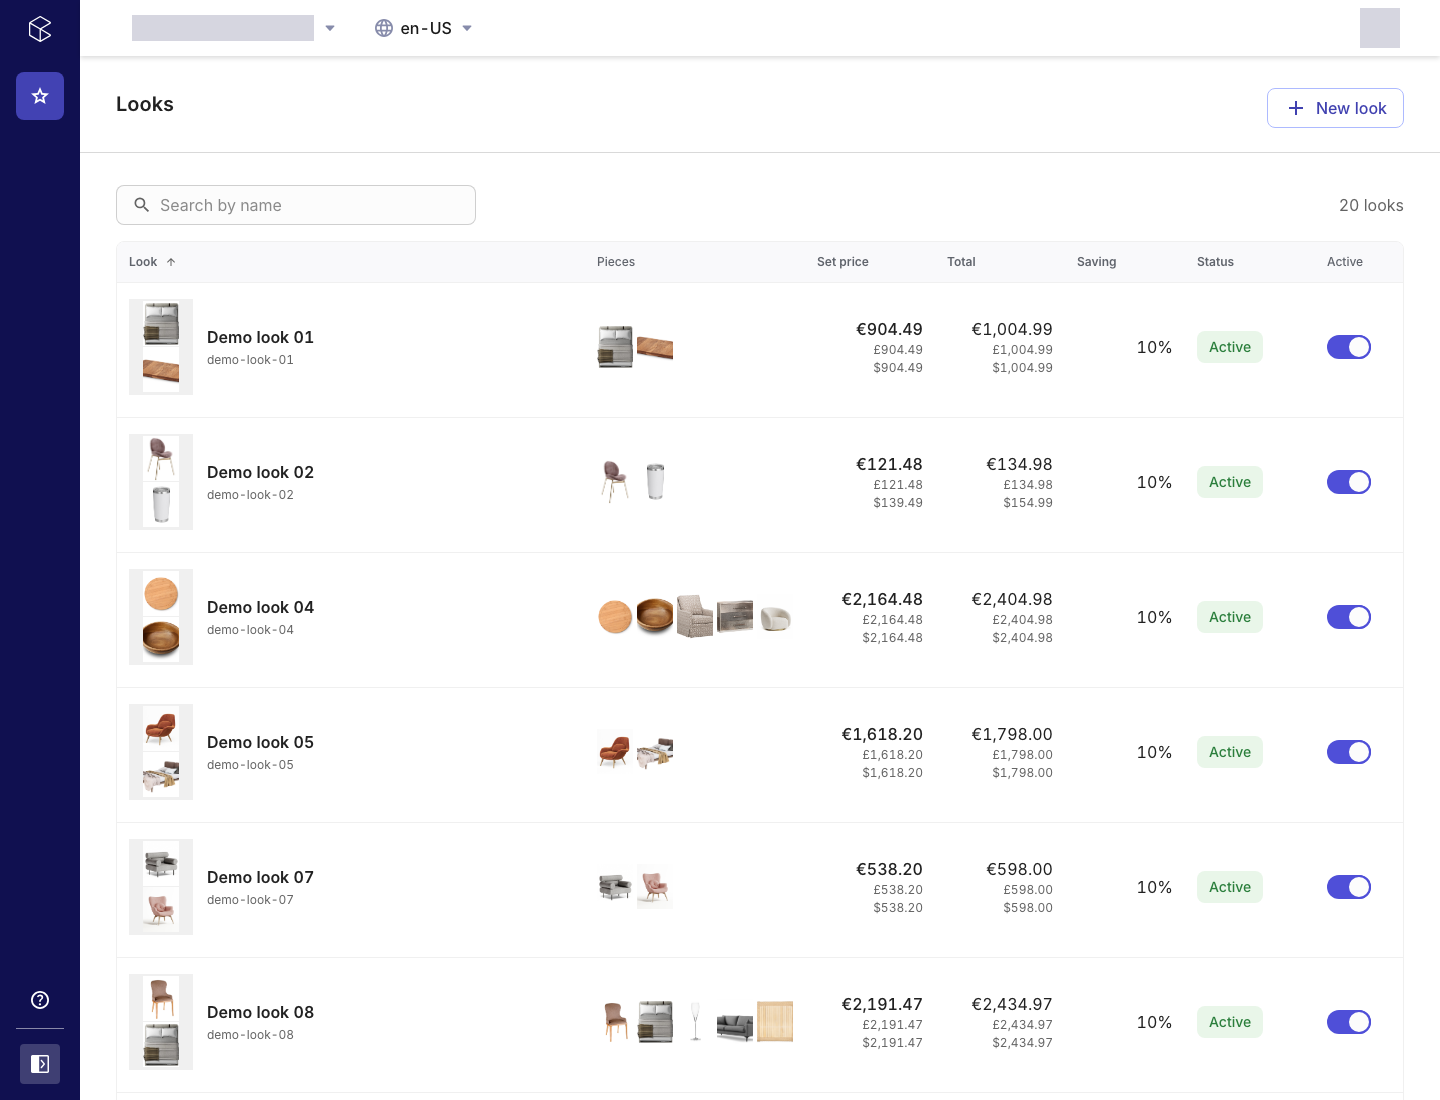
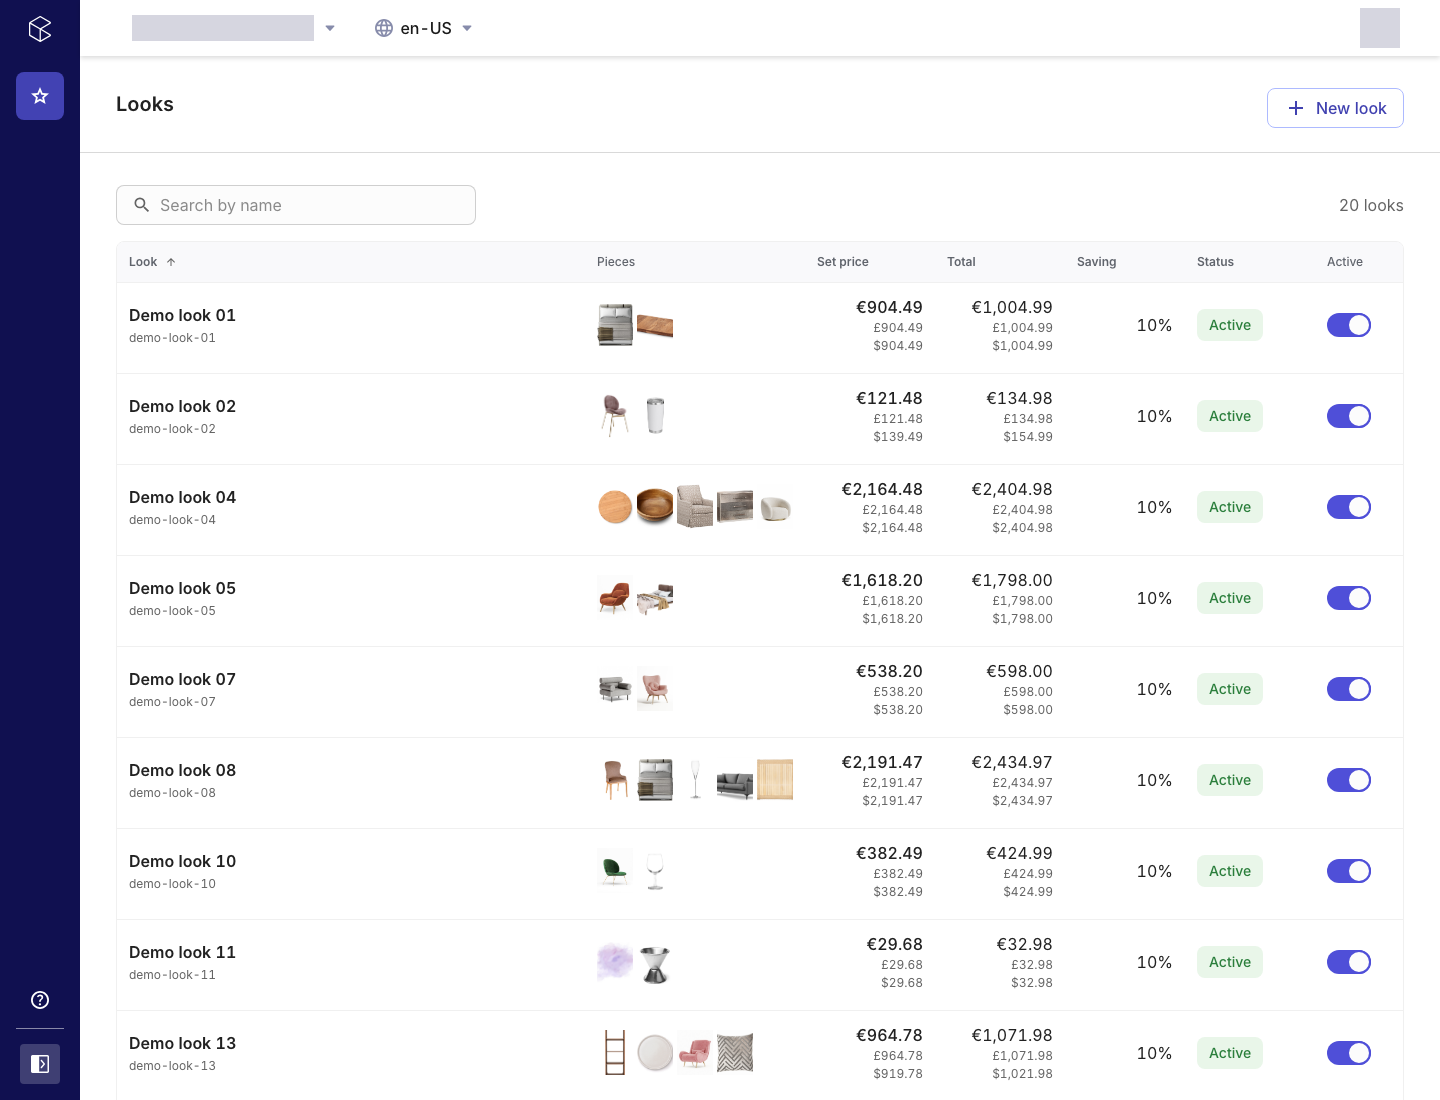
Remove the images from the Look column of the list
The Look column shows the name and the key only; the piece images stay in
the Teile column. Spec FR-010/FR-016, FEATURES.md and the list screenshots
are updated.

diff --git a/mc-looks-app/src/components/looks-list/looks-table.tsx b/mc-looks-app/src/components/looks-list/looks-table.tsx
@@ -35,11 +35,6 @@ type Row = DataTableRowItem<{ look: LookRow; position: number }>;
 /** One piece image in the Teile column and the gap between two (px). */
 export const STRIP_IMAGE_WIDTH = 36;
 export const STRIP_GAP = 4;
-/** The piece box in the Look column: 64 px wide, 2:3 portrait. */
-export const LOOK_BOX_WIDTH = 64;
-export const LOOK_BOX_RATIO = { width: 2, height: 3 };
-/** Piece images stacked in the box of the Look column. */
-const LOOK_BOX_PIECES = 2;
 
 /**
  * Column widths in px. The Look column has no width: it takes the rest of
@@ -68,32 +63,10 @@ const LookCell: FC<LookCellProps> = ({ look }) => {
   return (
     <Flex
       data-custom-composition="look-cell"
-      gap="350"
       alignItems="center"
       minWidth={0}
       py="100"
     >
-      <Flex
-        data-look-pieces=""
-        direction="column"
-        justifyContent="center"
-        gap="1px"
-        px="14px"
-        bg="neutral.3"
-        flexShrink={0}
-        width={`${LOOK_BOX_WIDTH}px`}
-        style={{
-          aspectRatio: `${LOOK_BOX_RATIO.width} / ${LOOK_BOX_RATIO.height}`,
-        }}
-      >
-        {look.pieces.slice(0, LOOK_BOX_PIECES).map((piece, i) => (
-          <PieceImage
-            key={look.pieceIds[i]}
-            src={piece?.imageUrl}
-            width="100%"
-          />
-        ))}
-      </Flex>
       <Stack gap="50" minWidth={0}>
         <Text fontWeight="600" truncate title={title}>
           {title}

diff --git a/mc-looks-app/src/components/looks-list/looks-page.spec.tsx b/mc-looks-app/src/components/looks-list/looks-page.spec.tsx
@@ -102,13 +102,17 @@ describe('looks list', () => {
     );
   });
 
-  it('shows the first two piece images in the box of the Look column', async () => {
-    setup(buildLooks([buildLook('plain', 'Ohne Foto', ['p1', 'p2', 'p3'])]));
-    const box = (await rowOf('Ohne Foto')).querySelector(
-      '[data-look-pieces]'
+  it('shows only the name and the key in the Look column, no image', async () => {
+    setup(buildLooks([buildLook('plain', 'Ohne Bild', ['p1', 'p2', 'p3'])]));
+    const row = await rowOf('Ohne Bild');
+    const cell = row.querySelector(
+      '[data-custom-composition="look-cell"]'
     ) as HTMLElement;
-    expect(box).toHaveStyle({ aspectRatio: '2 / 3' });
-    expect(box.querySelectorAll('img')).toHaveLength(2);
+    expect(cell.querySelector('img')).toBeNull();
+    expect(within(cell).getByText('Ohne Bild')).toBeInTheDocument();
+    expect(within(cell).getByText('plain')).toBeInTheDocument();
+    // The piece images are in the Teile column only.
+    expect(row.querySelectorAll('img')).toHaveLength(3);
   });
 
   it('shows all five piece images of a look', async () => {

diff --git a/specs/001-looks-app/spec.md b/specs/001-looks-app/spec.md
@@ -31,7 +31,7 @@ A merchandiser opens "Looks" in the Merchant Center main menu and sees every act
 **Acceptance Scenarios**:
 
 1. **Given** a project with eight active looks, **When** the user opens the app, **Then** the table lists all eight, each with set price per project currency, live sum, saving in percent and status "Aktiv"/"Active", and the header reads "8 Looks".
-2. **Given** a look, **When** the list renders, **Then** the first piece images stand in the 2:3 box of the Look column. (The look photo was removed.)
+2. **Given** a look, **When** the list renders, **Then** the Look column shows the name and the key only, without an image; the piece images are in the Teile column. (The look photo and the image box were removed.)
 3. **Given** a look has up to five pieces, **When** the list renders, **Then** all piece images are visible without being cut; a look with more pieces shows the first five and "+N".
 4. **Given** the user types part of a name, **When** the filter applies, **Then** only matching looks remain and the count updates; if none match, an empty-filter message is shown.
 4a. **Given** more looks than fit on one page, **When** the list renders, **Then** it shows one page with page controls and a page-size choice, and the count states the total ("8 Looks" total, not the page size).
@@ -195,14 +195,14 @@ A user with View permission only sees the same list, section and details, but al
 
 #### Looks list
 
-- **FR-010**: The list MUST show one row per look (a look definition joined with its same-key set-price discount) with the columns, in order: **Look** (a 64 px wide 2:3 box with the first piece images, name and key; takes remaining width, minimum 200 px), **Teile** (all piece images, 36 px wide 4:5, 4 px apart, up to five), **Setpreis** (one line per currency), **Summe** (live sum per currency), **Ersparnis** (percent, of the sum in the first currency), **Status**, and **Aktiv** (switch; Manage only).
+- **FR-010**: The list MUST show one row per look (a look definition joined with its same-key set-price discount) with the columns, in order: **Look** (name and key, no image; takes remaining width, minimum 200 px), **Teile** (all piece images, 36 px wide 4:5, 4 px apart, up to five), **Setpreis** (one line per currency), **Summe** (live sum per currency), **Ersparnis** (percent, of the sum in the first currency), **Status**, and **Aktiv** (switch; Manage only).
 - **FR-011**: The table MUST span the full content width; only the Look column grows. No column header MAY wrap in German or English; each fixed column MUST be at least as wide as its header in both languages. The look name MUST be cut with an ellipsis on one line.
 - **FR-012**: Status MUST be read from the discount's active flag (the discount decides what the shopper pays), shown as "Aktiv"/"Inaktiv" plus the warnings "Unvollständig" and "Setpreis weicht ab".
 - **FR-013**: The page MUST offer search by look name (field at most 360 px wide) and a count of all matching looks ("8 Looks") on the right. "Neuer Look" MUST sit at the right of the page heading (Manage only).
 - **FR-013a**: The list MUST be paginated (page-size choice of 20, 50, 100; default 20; the page and size are kept while the user filters, sorts, switches a look, or returns from a detail) and sortable by Look (name in the data locale), Setpreis, Summe, Ersparnis and Status. Sorting and filtering apply to all looks, not only the visible page. Columns whose values are not comparable (Teile, Aktiv) are not sortable. The default sort is name ascending; a changed sort or filter returns to page 1. "Frühere Looks" is exempt from pagination and sorting: it is ordered by sets sold (FR-021), and shows all past looks.
 - **FR-014**: The main list MUST contain active looks and incomplete looks (whatever their state); complete looks that are switched off MUST appear only under "Frühere Looks". With no active look the list MUST say "Zurzeit ist kein Look aktiv."
 - **FR-015**: The list MUST show loading (skeleton rows), empty, filtered-empty, and error-with-retry states. Row click MUST open the look's detail.
-- **FR-016**: The Look column MUST show the first two piece images stacked in a 64 × 96 px box. (The look photo was removed.)
+- **FR-016**: ~~The Look column shows the first two piece images in a 64 × 96 px box~~ (removed: the Look column shows name and key only; the piece images are in the Teile column).
 
 #### Frühere Looks
 

diff --git a/FEATURES.md b/FEATURES.md
@@ -8,7 +8,7 @@ How it is built, in short: a look is a Custom Object `look-<key>` (container `lo
 
 ![Looks list](docs/screenshots/list.png)
 
-- One row per look: the first piece images, name and key, all piece images (first five, then `+N`), set price, sum, saving, status.
+- One row per look: name and key, the piece images (first five, then `+N`), set price, sum, saving, status.
 - Status switch per row, plus the warnings "Unvollständig" (half-written look) and "Setpreis weicht ab" (price drifted).
 - Search by look name, sorting by look, set price, sum, saving and status, pagination (20, 50, 100). Page, size, sort and search survive switching a look and coming back from a detail.
 - Loading, empty, filtered-empty and error states with retry.
